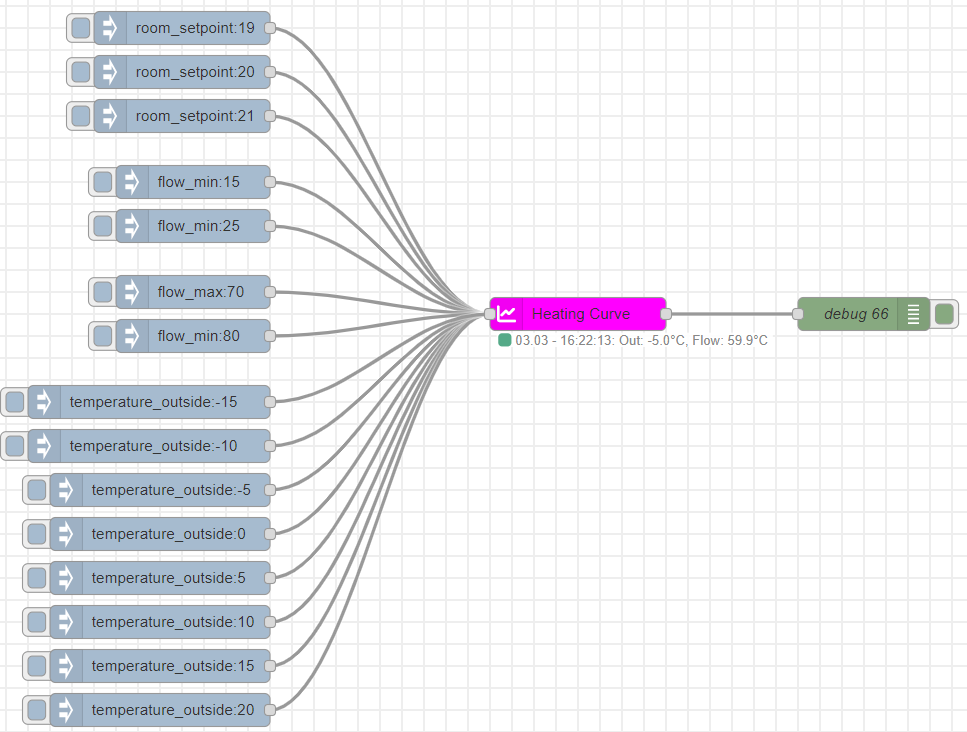
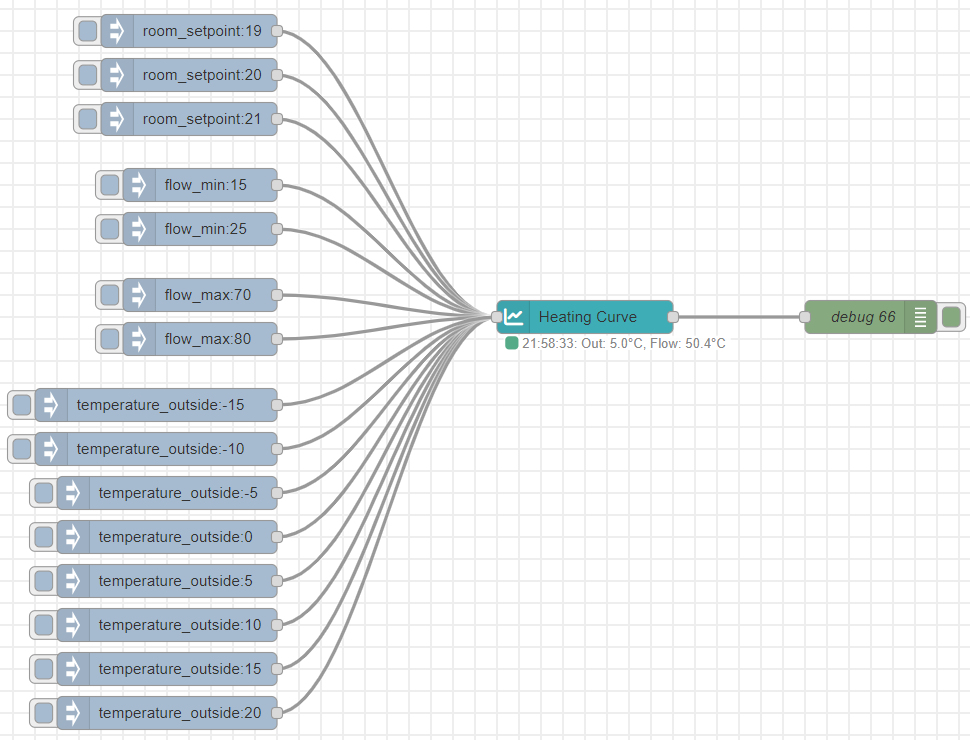
Fixed reading config values for offset and slope in heating-curve node.

Changed region(s): [[0.0, 0.0, 0.8066, 1.0], [0.8066, 0.3907, 1.0, 0.4508]]

diff --git a/heating-curve/heating-curve.js b/heating-curve/heating-curve.js
@@ -34,8 +34,8 @@ module.exports = function (RED)
         // ##################
         // # Dynamic config #
         // ##################
-        let slope = config.slope;
-        let offset = config.offset;
+        let slope = parseFloat(config.slope);
+        let offset = parseFloat(config.offset);
 
 
         // ##################

diff --git a/CHANGELOG.md b/CHANGELOG.md
@@ -114,3 +114,7 @@
 ## Version 0.4.8:
 
 -   Fixed reading values in heating-curve node.
+
+## Version 0.4.9:
+
+-   Fixed reading config values for offset and slope in heating-curve node.
